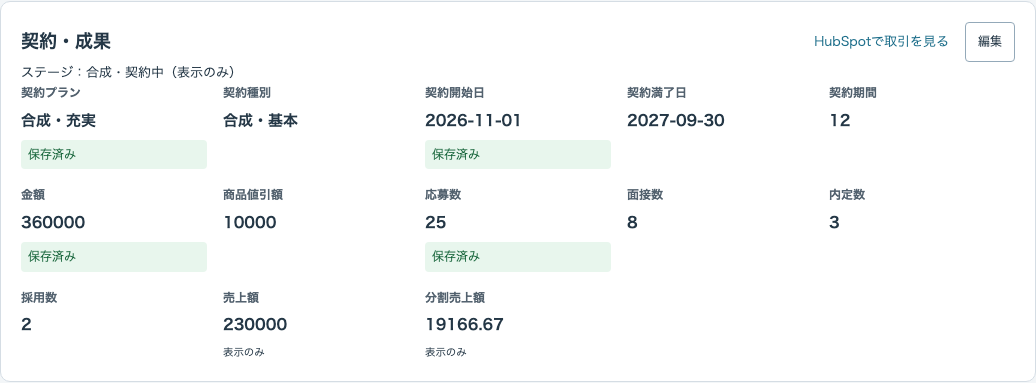
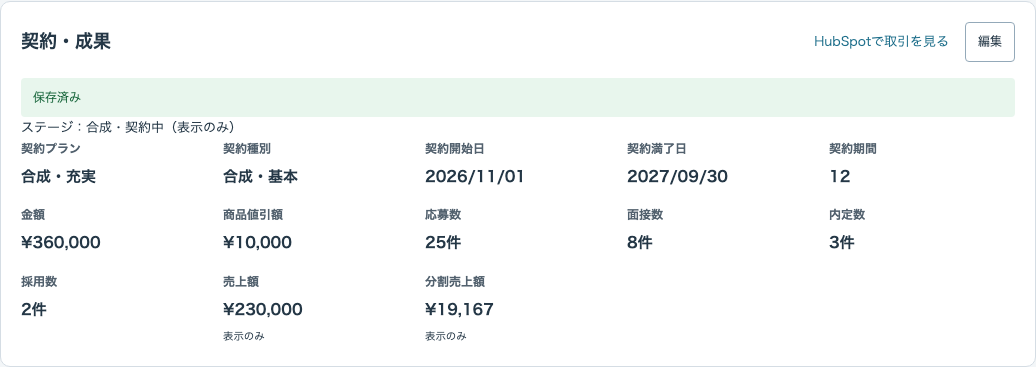
契約・成果の表示形式と保存結果の見せ方を改善

diff --git a/frontend/src/screens/job-copy/DealContract.tsx b/frontend/src/screens/job-copy/DealContract.tsx
@@ -11,11 +11,16 @@ import { contractWriteApi } from './dealContractApi';
 import { CONTRACT_FIELDS, DISPLAY_FIELDS, DELIVERY_PIPELINES, contractRequest, displayValue, inputValue } from './dealContractModel';
 import './deal-contract.css';
 
-function SaveStatus({ status }: { status: FieldStatus | undefined }) {
+function SaveStatus({ statuses }: { statuses: FieldStatus[] }) {
+  const status = statuses.find(item => item.phase === 'error' || item.phase === 'invalid')
+    ?? statuses.find(item => item.phase === 'saving')
+    ?? statuses.find(item => item.phase === 'queued')
+    ?? statuses[0];
   if (!status) return null;
   const tone = status.phase === 'saved' ? 'green' : status.phase === 'queued' || status.phase === 'saving' ? 'yellow' : 'red';
-  const text = status.phase === 'saved' ? '保存済み' : status.phase === 'queued' ? status.slow ? 'まだHubSpotへの反映を待っています' : '一時保存済み・HubSpotへの反映待ち' : status.phase === 'saving' ? '保存しています…' : status.message;
-  return <small role={tone === 'red' ? 'alert' : 'status'} className={`dc-status dc-${tone}`}>{text}</small>;
+  const messages = tone === 'red' ? [...new Set(statuses.flatMap(item => item.phase === 'error' || item.phase === 'invalid' ? [item.message] : []))]
+    : [status.phase === 'saved' ? '保存済み' : status.phase === 'queued' ? status.slow ? 'まだHubSpotへの反映を待っています' : '一時保存済み・HubSpotへの反映待ち' : '保存しています…'];
+  return <div role={tone === 'red' ? 'alert' : 'status'} className={`dc-status dc-${tone}`}>{messages.map(message => <span key={message}>{message}</span>)}</div>;
 }
 
 /** 案件の集計とは別に、その取引自身の HubSpot の契約・成果を表示する。 */
@@ -26,6 +31,7 @@ export function DealContract({ dealId, onSaved, onQueued }: { dealId: string; on
   const [editing, setEditing] = useState(false);
   const [draft, setDraft] = useState<Record<string, string>>({});
   const [base, setBase] = useState<PropValues>({});
+  const [savedFields, setSavedFields] = useState<string[]>([]);
   const refresh = useCallback(() => { onSaved(); setRevision(value => value + 1); }, [onSaved]);
   const write = useCrmWrite({ dealId, api: contractWriteApi, onSaved: refresh, onWritten: (_req, kind) => { if (kind === 'queued') onQueued?.(); } });
   useEffect(() => {
@@ -54,16 +60,23 @@ export function DealContract({ dealId, onSaved, onQueued }: { dealId: string; on
     if (overlay && (overlay.pending || !overlay.fetchedAt || !data || data.detail.fetched_at <= overlay.fetchedAt)) values[prop.name] = overlay.value;
   }
   const startEdit = () => {
+    setSavedFields([]);
     setBase(values);
     setDraft(Object.fromEntries(writable.map(prop => [prop.name, inputValue(prop, values[prop.name])])));
     setEditing(true);
   };
   const request = { ...contractRequest(dealId, writable, base, draft), fetchedAt: data?.detail.fetched_at };
+  const statuses = savedFields.flatMap(name => { const status = write.statuses[fieldKey(dealId, 'deal', name)]; return status ? [status] : []; });
   return <section className="dc-root" aria-label="契約・成果">
     <header><h2>契約・成果</h2>{data && <a href={data.detail.deal.deep_link} target="_blank" rel="noreferrer">HubSpotで取引を見る</a>}{canEdit && !editing && <button className="jc-button" disabled={locked} onClick={startEdit}>編集</button>}</header>
     {!data && !error && <p role="status">契約・成果を読み込んでいます…</p>}
     {error && <p role="alert">{error} <button className="jc-button" onClick={() => { setRevision(value => value + 1); }}>再読み込み</button></p>}
     {data && <>
+      {!write.conflict && <SaveStatus statuses={statuses} />}
+      {write.conflict && <div role="alert" className="dc-conflict"><h3>ほかの更新があります。現在の値を確認してください。</h3><p>今回の変更は保存されていません。</p><ul>{write.conflict.req.changes.map(change => {
+        const prop = data.props.find(item => item.name === change.name);
+        return prop && <li key={change.name}>{prop.label}：現在の値「{displayValue(prop, write.conflict?.current[change.name])}」／入力した値「{displayValue(prop, change.value)}」</li>;
+      })}</ul><button className="jc-button" onClick={() => { write.resolveConflict('theirs'); setEditing(false); }}>現在の値を使う</button><button className="jc-button" onClick={() => { write.resolveConflict('mine'); setEditing(false); }}>確認して入力した値で保存</button></div>}
       <p>ステージ：{data.detail.deal.stage_label ?? '未取得'}（表示のみ）</p>
       {write.writesEnabled === false ? <p>{WRITES_OFF_NOTE}</p> : write.schema.phase === 'error' ? <p>編集できるか確認できないため、表示のみです。</p> : !targeted ? <p>この取引は契約・成果の編集対象外です。</p> : schema && writable.length < CONTRACT_FIELDS.length ? <p>HubSpotで編集が許可された項目だけ変更できます。</p> : null}
       {data.props.length < DISPLAY_FIELDS.length && <p>一部の項目を取得できないため、確認できた項目だけ表示しています。</p>}
@@ -74,17 +87,14 @@ export function DealContract({ dealId, onSaved, onQueued }: { dealId: string; on
         const editable = editing && canEdit && writable.some(item => item.name === name);
         const value = draft[name] ?? '';
         const change = (next: string) => { setDraft(prev => ({ ...prev, [name]: next })); write.dismiss(key); };
-        return <div className="dc-field" key={name}><label htmlFor={`dc-${name}`}>{prop.label}</label><strong>{displayValue(prop, values[name])}</strong>
+        return <div className={`dc-field${savedFields.includes(name) && write.statuses[key]?.phase === 'saved' ? ' dc-written' : ''}`} key={name}><label htmlFor={`dc-${name}`}>{prop.label}</label>{!editable && <strong>{displayValue(prop, values[name])}</strong>}
           {editable && (prop.property_type === 'enumeration' ? <select id={`dc-${name}`} disabled={locked} value={value} onChange={event => { change(event.target.value); }}><option value="">未入力</option>{value && !prop.options.some(option => option.value === value) && <option value={value}>{displayValue(prop, value)}</option>}{prop.options.map(option => <option key={option.value} value={option.value}>{option.label}</option>)}</select> : <input id={`dc-${name}`} disabled={locked} type={prop.property_type === 'date' ? 'date' : prop.property_type === 'number' ? 'number' : 'text'} step="any" value={value} onChange={event => { change(event.target.value); }} />)}
           {!CONTRACT_FIELDS.some(field => field === name) && <small>表示のみ</small>}
-          <SaveStatus status={write.statuses[key]} />
+          {editable && request.changes.some(change => change.name === name) && <small className="dc-original">元: {displayValue(prop, base[name])}</small>}
         </div>;
       })}</div>
-      {editing && canEdit && <div className="dc-actions"><button className="jc-button" disabled={locked || !request.changes.length} onClick={() => { void write.save(request).then(outcome => { if (outcome.kind === 'saved' || outcome.kind === 'queued') setEditing(false); }); }}>保存</button><button className="jc-button" disabled={locked} onClick={() => { setEditing(false); }}>キャンセル</button></div>}
-      {write.conflict && <div role="alert" className="dc-conflict"><h3>ほかの更新があります。現在の値を確認してください。</h3><p>今回の変更は保存されていません。</p><ul>{write.conflict.req.changes.map(change => {
-        const prop = data.props.find(item => item.name === change.name);
-        return prop && <li key={change.name}>{prop.label}：現在の値「{displayValue(prop, write.conflict?.current[change.name])}」／入力した値「{displayValue(prop, change.value)}」</li>;
-      })}</ul><button className="jc-button" onClick={() => { write.resolveConflict('theirs'); setEditing(false); }}>現在の値を使う</button><button className="jc-button" onClick={() => { write.resolveConflict('mine'); setEditing(false); }}>確認して入力した値で保存</button></div>}
+      {editing && canEdit && <div className="dc-actions"><button className="jc-button" disabled={locked || !request.changes.length} onClick={() => { setSavedFields(request.changes.map(change => change.name)); void write.save(request).then(outcome => { if (outcome.kind === 'saved' || outcome.kind === 'queued') setEditing(false); }); }}>保存</button><button className="jc-button" disabled={locked} onClick={() => { setEditing(false); }}>キャンセル</button></div>}
+
     </>}
   </section>;
 }

diff --git a/frontend/src/screens/job-copy/DealContract.test.tsx b/frontend/src/screens/job-copy/DealContract.test.tsx
@@ -5,7 +5,7 @@ import { DealContract } from './DealContract';
 import { DealSummary } from './DealSummary';
 vi.mock('../../components/EChart', () => ({ EChart: () => null }));
 import { contractCatalog, contractDetail, contractSchema, contractValues, contractProps } from './dealContract.testFixtures';
-import { contractRequest, inputValue } from './dealContractModel';
+import { contractRequest, displayValue, inputValue } from './dealContractModel';
 import { buildPatchBody } from '../crm/writeModel';
 import { clearCompanyDealsCache, loadCompanyDeals } from './companyDeals';
 
@@ -55,6 +55,49 @@ describe('契約・成果の差分', () => {
   });
 });
 
+describe('契約・成果の表示形式', () => {
+  it('金額は円に四捨五入、件数は桁区切りと件、単位不明の契約期間は数値のみ、日付表示と入力を分ける', () => {
+    const display = (name: string, value: string | null) => {
+      const prop = contractProps.find(item => item.name === name);
+      if (!prop) throw new Error('合成項目がありません');
+      return displayValue(prop, value);
+    };
+    expect(display('amount', '360000')).toBe('¥360,000');
+    expect(display('discount_amount', '1234.5')).toBe('¥1,235');
+    expect(display('sales_amount', '230000.49')).toBe('¥230,000');
+    expect(display('split_sales_amount', '19166.67')).toBe('¥19,167');
+    expect(display('amount', '-1234.5')).toBe('-¥1,235');
+    for (const name of ['oubo', 'mensetu', 'naite', 'syoudaku']) expect(display(name, '1234')).toBe('1,234件');
+    expect(display('oubo', '0')).toBe('0件');
+    expect(display('contract_period', '1200')).toBe('1,200');
+    expect(display('contract_start_date', '2026-10-01T00:00:00Z')).toBe('2026/10/01');
+    expect(display('contract_expiration_date', '2027-09-30')).toBe('2027/09/30');
+    expect(display('amount', null)).toBe('未入力');
+  });
+  it('編集中は入力欄だけ、変更項目だけに元の値を表示し、保存結果は上部の1か所にまとめる', async () => {
+    mockApi();
+    const { container } = render(<DealContract dealId="901" onSaved={vi.fn()} />);
+    fireEvent.click(await screen.findByRole('button', { name: '編集' }));
+    expect(container.querySelectorAll('.dc-field strong')).toHaveLength(2);
+    expect(screen.queryByText(/^元:/)).toBeNull();
+    fireEvent.change(screen.getByLabelText('金額', { exact: true }), { target: { value: '360000' } });
+    expect(screen.getByText('元: ¥240,000')).toBeTruthy();
+    fireEvent.change(screen.getByLabelText('応募数'), { target: { value: '1234' } });
+    expect(screen.getByText('元: 20件')).toBeTruthy();
+    expect(container.querySelectorAll('.dc-original')).toHaveLength(2);
+    fireEvent.click(screen.getByRole('button', { name: /^保存$/ }));
+    await screen.findByText('保存済み');
+    expect(container.querySelectorAll('.dc-status')).toHaveLength(1);
+    expect(container.querySelectorAll('.dc-field .dc-status')).toHaveLength(0);
+    expect(container.querySelectorAll('.dc-written')).toHaveLength(2);
+    expect([...container.querySelectorAll('.dc-status, .dc-fields')].map(element => element.className)).toEqual(['dc-status dc-green', 'dc-fields']);
+    fireEvent.click(screen.getByRole('button', { name: '編集' }));
+    fireEvent.change(screen.getByLabelText('金額', { exact: true }), { target: { value: '480000' } });
+    expect(screen.getByText('元: ¥360,000')).toBeTruthy();
+    expect(screen.queryByText('¥360,000')).toBeNull();
+  });
+});
+
 describe('実APIクライアントと既存の書き込みhookを使う表示', () => {
   for (const pipeline of ['21596025', '743961896']) it(`${pipeline}: 200は緑。選択は表示名からvalueへ、保存後に読み直す`, async () => {
     const { patches, fetch } = mockApi(200, '', pipeline);
@@ -63,7 +106,7 @@ describe('実APIクライアントと既存の書き込みhookを使う表示', 
     await editAmount();
     await screen.findByText('保存済み');
     expect(container.querySelector('.dc-green')?.textContent).toBe('保存済み');
-    expect(screen.getByText('360000')).toBeTruthy();
+    expect(screen.getByText('¥360,000')).toBeTruthy();
     expect(patches[0]?.body.base).toEqual({ amount: '240000' });
     expect(patches[0]?.body.set).toEqual({ amount: '360000' });
     expect(patches[0]?.body.operation_id).toMatch(/^[a-zA-Z0-9_-]{8,64}$/);
@@ -99,10 +142,10 @@ describe('実APIクライアントと既存の書き込みhookを使う表示', 
     const { patches } = mockApi(409);
     render(<DealContract dealId="901" onSaved={vi.fn()} />);
     await editAmount();
-    await screen.findByText(/現在の値「300000」／入力した値「360000」/);
+    await screen.findByText(/現在の値「¥300,000」／入力した値「¥360,000」/);
     expect(patches).toHaveLength(1);
     fireEvent.click(screen.getByRole('button', { name: '現在の値を使う' }));
-    expect(screen.getByText('300000')).toBeTruthy();
+    expect(screen.getByText('¥300,000')).toBeTruthy();
     expect(patches).toHaveLength(1);
   });
   it('409で入力値を選んだ場合だけ、現在値をbaseに新しい操作で再送する', async () => {
@@ -145,7 +188,7 @@ describe('実APIクライアントと既存の書き込みhookを使う表示', 
   it('本番の栓が閉じていれば値を表示し、編集を出さない', async () => {
     mockApi(200, '', '21596025', false);
     render(<DealContract dealId="901" onSaved={vi.fn()} />);
-    await screen.findByText('240000');
+    await screen.findByText('¥240,000');
     expect(screen.getByText('合成・契約中', { exact: false })).toBeTruthy();
     expect(screen.getByText('この案件はまだ編集できません（試験運用中）')).toBeTruthy();
     expect(screen.queryByRole('button', { name: '編集' })).toBeNull();

diff --git a/frontend/src/screens/job-copy/dealContractModel.ts b/frontend/src/screens/job-copy/dealContractModel.ts
@@ -16,7 +16,17 @@ export function inputValue(prop: CrmCatalogProperty, value: string | null | unde
 }
 export function displayValue(prop: CrmCatalogProperty, value: string | null | undefined): string {
   if (value == null || value === '') return '未入力';
-  return prop.options.find(option => option.value === value)?.label ?? inputValue(prop, value);
+  if (prop.property_type === 'date') return inputValue(prop, value).replaceAll('-', '/');
+  if (prop.property_type === 'number' && Number.isFinite(Number(value))) {
+    const number = Number(value);
+    if (['amount', 'discount_amount', 'sales_amount', 'split_sales_amount'].includes(prop.name)) {
+      return `${number < 0 ? '-' : ''}¥${Math.abs(number).toLocaleString('ja-JP', { maximumFractionDigits: 0 })}`;
+    }
+    const formatted = number.toLocaleString('ja-JP', { maximumFractionDigits: 20 });
+    // 既存の項目定義・読み取り API には契約期間の単位説明がないため、推測して単位を付けない。
+    return ['oubo', 'mensetu', 'naite', 'syoudaku'].includes(prop.name) ? `${formatted}件` : formatted;
+  }
+  return prop.options.find(option => option.value === value)?.label ?? value;
 }
 export function contractRequest(dealId: string, props: CrmCatalogProperty[], base: PropValues, draft: Record<string, string>): SaveRequest {
   return { dealId, changes: props.filter(prop => CONTRACT_FIELDS.some(name => name === prop.name) && prop.name in draft && draft[prop.name] !== inputValue(prop, base[prop.name])).map(prop => ({ object: 'deal', name: prop.name, base: base[prop.name] ?? null, value: draft[prop.name] === '' ? null : draft[prop.name] ?? null })) };

diff --git a/frontend/src/screens/job-copy/deal-contract.css b/frontend/src/screens/job-copy/deal-contract.css
@@ -8,9 +8,14 @@
 .dc-field label { font-size: 12px; color: #52616e; }
 .dc-field strong { font-size: 15px; overflow-wrap: anywhere; }
 .dc-field input, .dc-field select { padding: 8px; border: 1px solid #aab8c4; border-radius: 4px; width: 100%; box-sizing: border-box; font: inherit; }
-.dc-status { display: block; padding: 5px 7px; border-radius: 4px; font-size: 12px; }
+.dc-status { display: flex; flex-direction: column; gap: 4px; margin-top: 16px; padding: 10px 12px; border-radius: 4px; font-size: 12px; }
 .dc-green { color: #146338; background: #e8f6ed; }
 .dc-yellow { color: #785200; background: #fff3cc; }
 .dc-red, .dc-conflict { color: #982b24; background: #fff0ee; }
 .dc-conflict { padding: 16px; margin-top: 16px; }
 .dc-actions { display: flex; gap: 12px; margin-top: 20px; }
+
+.dc-field { border-radius: 5px; }
+.dc-original { color: #647381; font-size: 12px; }
+.dc-written { animation: dc-written 3s ease-out forwards; }
+@keyframes dc-written { from { background-color: #dff3e6; } to { background-color: transparent; } }

diff --git a/tests/e2e/job-copy-contract.config.ts b/tests/e2e/job-copy-contract.config.ts
@@ -1,3 +1,14 @@
 import { defineConfig } from '@playwright/test';
 import base from './job-copy-manage-edit-flow.config';
-export default defineConfig({ ...base, testMatch: 'job_copy_contract.spec.ts', outputDir: '../../data/job-copy-local/contract/test-results' });
+export default defineConfig({
+  ...base,
+  testMatch: 'job_copy_contract.spec.ts',
+  use: {
+    ...base.use,
+    locale: 'ja-JP',
+    timezoneId: 'Asia/Tokyo',
+    // ネイティブの日付入力も日本式にするため、Chromium 本体の言語もそろえる。
+    launchOptions: { args: ['--lang=ja-JP'], env: { ...process.env, LANG: 'ja_JP.UTF-8', LC_ALL: 'ja_JP.UTF-8' } },
+  },
+  outputDir: '../../data/job-copy-local/contract/test-results',
+});
